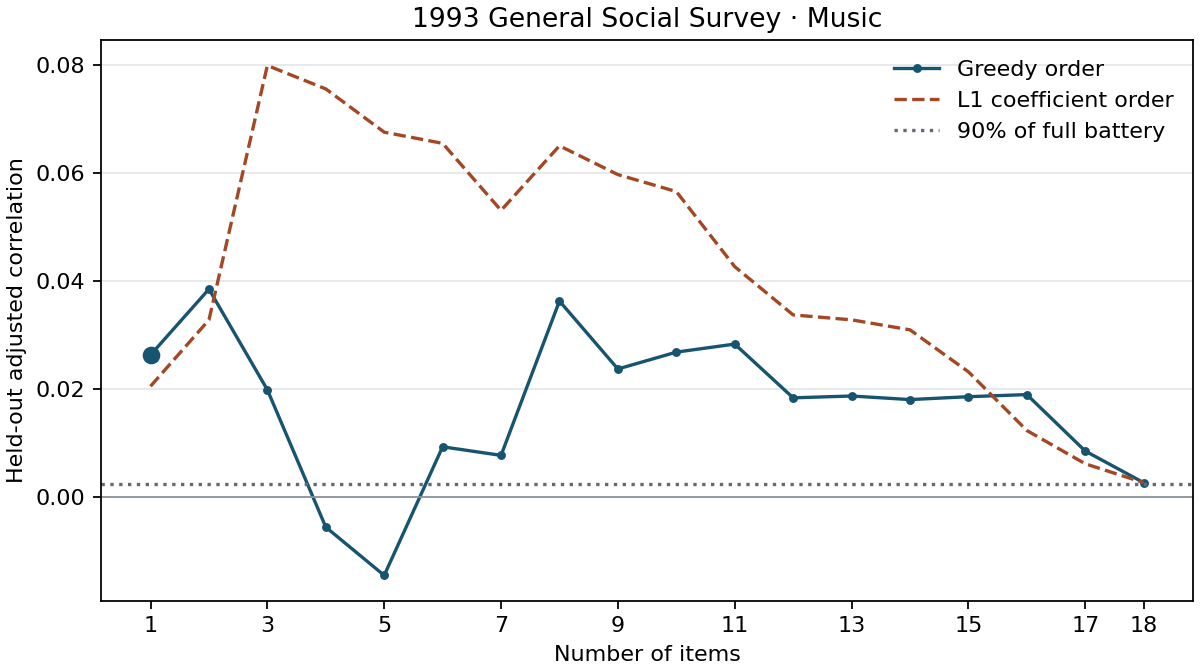
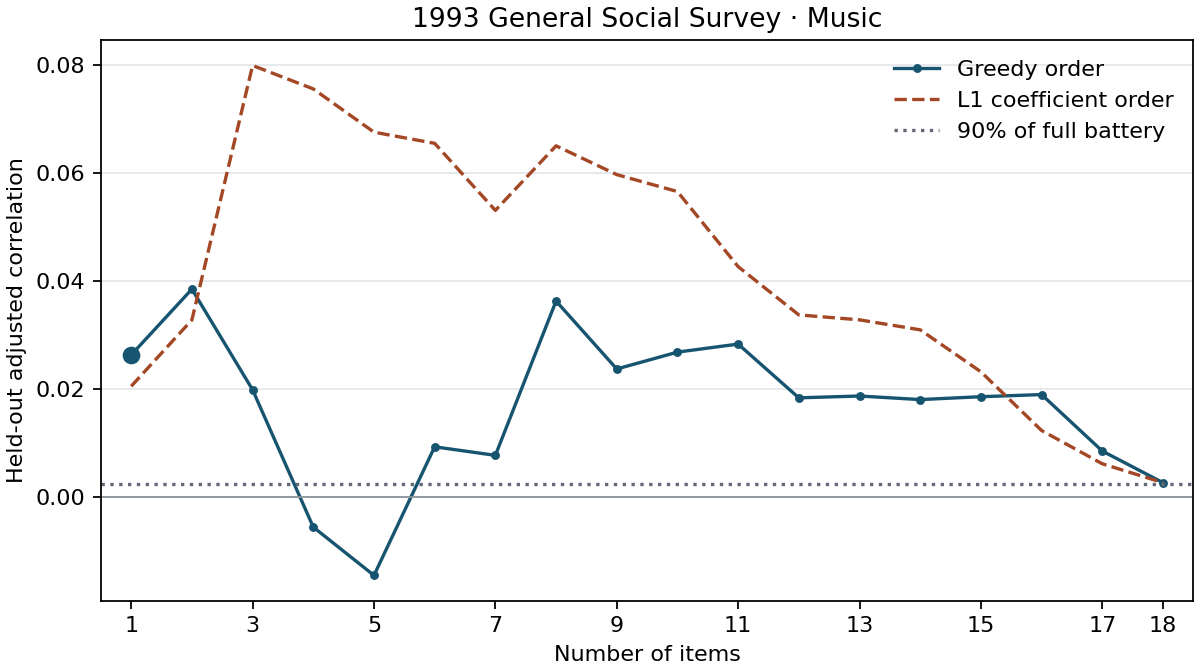
Complete Part 1 with Slovak replication

diff --git a/part1/__main__.py b/part1/__main__.py
@@ -17,7 +17,6 @@ from .quiz import evaluate_quiz
 
 matplotlib.use("Agg")
 from matplotlib import pyplot as plt
-from matplotlib.ticker import MaxNLocator
 
 ROOT = Path(__file__).resolve().parents[1]
 DOMAIN_NAMES = {
@@ -166,11 +165,10 @@ def draw_quiz(quiz, title, path):
     if quiz["minimum_k"] is not None:
         k = quiz["minimum_k"]
         ax.scatter(k, greedy[k - 1], color="#175470", s=48, zorder=3)
-    if len(counts) <= 20:
+    if counts:
         step = max(1, (len(counts) + 9) // 10)
         ax.set_xticks(sorted({*counts[::step], *counts[-1:]}))
-    else:
-        ax.xaxis.set_major_locator(MaxNLocator(integer=True, nbins=10))
+        ax.set_xlim(0.5, counts[-1] + 0.5)
     ax.set(xlabel="Number of items", ylabel="Held-out adjusted correlation", title=title)
     ax.grid(axis="y", color="#e3e8eb")
     ax.legend(frameon=False)
@@ -183,6 +181,7 @@ def domain_details(survey, domain, result, filename):
     auc = result["auc"]
     fit = result["ordinal"]
     means = result["mean_scores"]
+    low_rating = "disliked items" if survey.name == "1993 General Social Survey" else "low ratings (1–2)"
     train_cells = q["n_train"] * len(q["k"])
     test_cells = q["n_test"] * len(q["k"])
     train_missing = q["train_imputed_cells"] / train_cells if train_cells else np.nan
@@ -208,10 +207,20 @@ def domain_details(survey, domain, result, filename):
         f"| With response-style terms, slope (95% CI) | {effect(result['style_ordinal'])} |",
         "",
         f"Mean score components across complete cases were {means['liking']:.2f} average liking, "
-        f"{means['disliked']:.2f} disliked items, {means['very_liked']:.2f} strongly liked items, "
+        f"{means['disliked']:.2f} {low_rating}, {means['very_liked']:.2f} maximum ratings, "
         f"{means['item_sd']:.2f} within-person SD, and {means['valid_count']:.2f} valid items.",
         "",
         quiz_text(q, survey.labels),
+    ]
+    l1_crossings = [i for i, correlation in enumerate(q["l1_test"]) if correlation >= q["target_r"]]
+    if l1_crossings:
+        first_crossing = l1_crossings[0]
+        l1_items = ", ".join(survey.labels[item] for item in q["l1_order"][:first_crossing + 1])
+        rows.append(
+            f"The L1 order first crossed at k = {first_crossing + 1} "
+            f"({l1_items}, r = {q['l1_test'][first_crossing]:.3f})."
+        )
+    rows += [
         f"Quiz gaps filled using training item means were {format_number(train_missing, '.1%')} in training and "
         f"{format_number(test_missing, '.1%')} in testing.",
         "",
@@ -273,6 +282,9 @@ def write_report(out, gss, gss_results, checks, young, young_results):
     else:
         repl = young_results["combined"]
         repl_fit = repl["ordinal"]
+        hobby_fit = young_results["hobbies"]["ordinal"]
+        music_fit = young_results["music"]["ordinal"]
+        film_fit = young_results["film"]["ordinal"]
         if repl_fit["lo"] > 0 and fit["lo"] > 0:
             interpretation = "Both surveys support the hypothesized positive direction."
         elif repl_fit["lo"] > 0:
@@ -283,8 +295,13 @@ def write_report(out, gss, gss_results, checks, young, young_results):
             interpretation = "The combined Slovak interval includes no association, so replication is inconclusive."
         report += [
             f"**Slovak replication.** In {repl_fit['n']:,} Young People Survey responses, the combined score "
-            f"had an adjusted cumulative odds ratio of {odds(repl_fit)} (95% CI), with permutation "
-            f"p = {repl['p']:.4f}. {interpretation}",
+            f"had an adjusted cumulative odds ratio of {odds(repl_fit)} per SD (95% CI), with permutation "
+            f"p = {repl['p']:.4f}. A one-SD difference in liking corresponded to a "
+            f"{repl_fit['pp_change']:+.1f} percentage-point change in the modeled probability of the highest happiness rating. "
+            f"The descriptive domain odds ratios were {hobby_fit['odds_ratio']:.2f} for hobbies and interests, "
+            f"{music_fit['odds_ratio']:.2f} for music, and {film_fit['odds_ratio']:.2f} for film. {interpretation}",
+            "",
+            f"**Slovak combined quiz.** {quiz_text(repl['quiz'], young.labels)}",
             "",
         ]
 
@@ -294,7 +311,8 @@ def write_report(out, gss, gss_results, checks, young, young_results):
         "The analysis followed the [plan committed before inspecting outcomes](../PLAN.md). Higher "
         "ratings mean more liking and higher ordered outcome values mean greater happiness. The liking "
         "score averages observed ratings. The main model adjusts for the retained background variables "
-        "using ordinal logistic regression. AUC and quiz associations use the preassigned held-out half.",
+        "using ordinal logistic regression. AUC and quiz associations use the preassigned held-out half. "
+        "AUC differences use the unrounded paired estimates.",
         "",
         "The GSS music battery and missing codes come from the NORC documentation and single-year file. "
         "[NORC documentation](https://gss.norc.org/get-documentation.html) · "
@@ -354,7 +372,10 @@ def write_report(out, gss, gss_results, checks, young, young_results):
             "The original questionnaire dictionary defined the item domains. The combined battery uses "
             "all items listed below. [Young People Survey](https://www.kaggle.com/datasets/miroslavsabo/young-people-survey)",
             "",
-            f"The happiness outcome prompt was “{young.audit['outcome_prompt']}”",
+            f"The happiness outcome prompt was “{young.audit['outcome_prompt']}” "
+            "Respondents rated their agreement on a 1–5 scale. Genre ratings ranged from low to high "
+            "enjoyment. Hobby and interest ratings ranged from low to high interest. "
+            "Village/town refers to where the respondent spent most of childhood.",
             "",
             "| Background field | Missing responses |",
             "| --- | ---: |",

diff --git a/reports/part1.md b/reports/part1.md
@@ -8,11 +8,13 @@
 
 **Matched check.** Within comparable income, marital, health and work groups, the pooled difference in “very happy” was +0.6 percentage points (33.1% in the top liking tercile and 32.5% in the bottom). The comparison covered 524 people in 68 overlapping strata.
 
-**Replication pending.** The original Slovak questionnaire dictionary and response CSV are required to estimate replication. This report contains the GSS results while those files are pending.
+**Slovak replication.** In 987 Young People Survey responses, the combined score had an adjusted cumulative odds ratio of 1.26 [1.11, 1.42] per SD (95% CI), with permutation p = 0.0002. A one-SD difference in liking corresponded to a +2.8 percentage-point change in the modeled probability of the highest happiness rating. The descriptive domain odds ratios were 1.32 for hobbies and interests, 1.15 for music, and 0.98 for film. The Slovak survey supports the hypothesized positive direction and the GSS estimate is inconclusive.
+
+**Slovak combined quiz.** The full-battery held-out correlation was 0.130 (95% bootstrap interval 0.041 to 0.217). The first crossing was **2 items** (Physics, Fun with friends, r = 0.173).
 
 ## Methods and results
 
-The analysis followed the [plan committed before inspecting outcomes](../PLAN.md). Higher ratings mean more liking and higher ordered outcome values mean greater happiness. The liking score averages observed ratings. The main model adjusts for the retained background variables using ordinal logistic regression. AUC and quiz associations use the preassigned held-out half.
+The analysis followed the [plan committed before inspecting outcomes](../PLAN.md). Higher ratings mean more liking and higher ordered outcome values mean greater happiness. The liking score averages observed ratings. The main model adjusts for the retained background variables using ordinal logistic regression. AUC and quiz associations use the preassigned held-out half. AUC differences use the unrounded paired estimates.
 
 The GSS music battery and missing codes come from the NORC documentation and single-year file. [NORC documentation](https://gss.norc.org/get-documentation.html) · [NORC Stata files](https://gss.norc.org/get-the-data/stata.html)
 
@@ -47,12 +49,113 @@ Of 1,606 survey records, 1,576 met the battery coverage requirement, 1,573 of th
 | Unadjusted r, raw liking / age- and education-residualized liking | +0.028 / +0.002 |
 | With response-style terms, slope (95% CI) | +0.006 [-0.109, +0.121] |
 
-Mean score components across complete cases were 3.14 average liking, 5.44 disliked items, 2.22 strongly liked items, 1.10 within-person SD, and 16.97 valid items.
+Mean score components across complete cases were 3.14 average liking, 5.44 disliked items, 2.22 maximum ratings, 1.10 within-person SD, and 16.97 valid items.
 
 The full-battery held-out correlation was 0.003 (95% bootstrap interval -0.073 to 0.078). The first crossing was **1 item** (Classical music, r = 0.026). The threshold crossing is exploratory because the full-battery association was weak.
+The L1 order first crossed at k = 1 (Big band, r = 0.021).
 Quiz gaps filled using training item means were 5.5% in training and 5.9% in testing.
 
 ![Held-out association by number of items for 1993 General Social Survey Music](figures/gss-music-quiz.png)
+
+### Young People Survey · Music
+
+Of 1,010 survey records, 1,010 met the battery coverage requirement, 1,006 of those had an outcome, and 987 entered the complete-case analysis (490 train, 497 test).
+
+| Estimate | Value |
+| --- | ---: |
+| Primary log-odds slope per SD (95% CI) | +0.142 [+0.020, +0.264] |
+| Cumulative odds ratio per SD (95% CI) | 1.15 [1.02, 1.30] |
+| Average modeled change in highest-outcome probability per SD | +1.72 pp |
+| Two-sided permutation p | 0.0280 |
+| Test AUC, controls only | 0.573 |
+| Test AUC, controls and liking | 0.566 |
+| Paired test AUC difference | -0.007 |
+| With liking residualized on age and education, slope (95% CI) | +0.141 [+0.020, +0.262] |
+| Unadjusted r, raw liking / age- and education-residualized liking | +0.085 / +0.078 |
+| With response-style terms, slope (95% CI) | +0.169 [+0.034, +0.303] |
+
+Mean score components across complete cases were 2.76 average liking, 7.65 low ratings (1–2), 2.17 maximum ratings, 1.19 within-person SD, and 16.91 valid items.
+
+The full-battery held-out correlation was 0.077 (95% bootstrap interval -0.026 to 0.174). The first crossing was **1 item** (Reggae, Ska, r = 0.109). The threshold crossing is exploratory because the full-battery association was weak.
+The L1 order first crossed at k = 1 (Reggae, Ska, r = 0.109).
+Quiz gaps filled using training item means were 0.5% in training and 0.5% in testing.
+
+![Held-out association by number of items for Young People Survey Music](figures/young-music-quiz.png)
+
+### Young People Survey · Film
+
+Of 1,010 survey records, 1,010 met the battery coverage requirement, 1,006 of those had an outcome, and 987 entered the complete-case analysis (490 train, 497 test).
+
+| Estimate | Value |
+| --- | ---: |
+| Primary log-odds slope per SD (95% CI) | -0.022 [-0.146, +0.102] |
+| Cumulative odds ratio per SD (95% CI) | 0.98 [0.86, 1.11] |
+| Average modeled change in highest-outcome probability per SD | -0.27 pp |
+| Two-sided permutation p | 0.7253 |
+| Test AUC, controls only | 0.573 |
+| Test AUC, controls and liking | 0.578 |
+| Paired test AUC difference | +0.004 |
+| With liking residualized on age and education, slope (95% CI) | -0.022 [-0.146, +0.102] |
+| Unadjusted r, raw liking / age- and education-residualized liking | -0.003 / -0.001 |
+| With response-style terms, slope (95% CI) | +0.018 [-0.153, +0.189] |
+
+Mean score components across complete cases were 3.39 average liking, 3.01 low ratings (1–2), 3.03 maximum ratings, 1.20 within-person SD, and 10.97 valid items.
+
+The full-battery held-out correlation was 0.014 (95% bootstrap interval -0.068 to 0.098). The first crossing was **4 items** (Animated, Western, Fantasy/Fairy tales, Romantic, r = 0.026). The threshold crossing is exploratory because the full-battery association was weak.
+The L1 order first crossed at k = 4 (Thriller, Horror, Comedy, Romantic, r = 0.019).
+Quiz gaps filled using training item means were 0.2% in training and 0.3% in testing.
+
+![Held-out association by number of items for Young People Survey Film](figures/young-film-quiz.png)
+
+### Young People Survey · Hobbies and interests
+
+Of 1,010 survey records, 1,010 met the battery coverage requirement, 1,006 of those had an outcome, and 987 entered the complete-case analysis (490 train, 497 test).
+
+| Estimate | Value |
+| --- | ---: |
+| Primary log-odds slope per SD (95% CI) | +0.280 [+0.157, +0.402] |
+| Cumulative odds ratio per SD (95% CI) | 1.32 [1.17, 1.50] |
+| Average modeled change in highest-outcome probability per SD | +3.35 pp |
+| Two-sided permutation p | 0.0001 |
+| Test AUC, controls only | 0.573 |
+| Test AUC, controls and liking | 0.604 |
+| Paired test AUC difference | +0.030 |
+| With liking residualized on age and education, slope (95% CI) | +0.277 [+0.156, +0.398] |
+| Unadjusted r, raw liking / age- and education-residualized liking | +0.149 / +0.139 |
+| With response-style terms, slope (95% CI) | +0.288 [+0.161, +0.414] |
+
+Mean score components across complete cases were 2.88 average liking, 13.83 low ratings (1–2), 6.35 maximum ratings, 1.37 within-person SD, and 31.85 valid items.
+
+The full-battery held-out correlation was 0.148 (95% bootstrap interval 0.065 to 0.229). The first crossing was **2 items** (Physics, Fun with friends, r = 0.173).
+The L1 order first crossed at k = 3 (Physics, Celebrities, Fun with friends, r = 0.207).
+Quiz gaps filled using training item means were 0.5% in training and 0.4% in testing.
+
+![Held-out association by number of items for Young People Survey Hobbies and interests](figures/young-hobbies-quiz.png)
+
+### Young People Survey · Combined
+
+Of 1,010 survey records, 1,010 met the battery coverage requirement, 1,006 of those had an outcome, and 987 entered the complete-case analysis (490 train, 497 test).
+
+| Estimate | Value |
+| --- | ---: |
+| Primary log-odds slope per SD (95% CI) | +0.230 [+0.108, +0.353] |
+| Cumulative odds ratio per SD (95% CI) | 1.26 [1.11, 1.42] |
+| Average modeled change in highest-outcome probability per SD | +2.77 pp |
+| Two-sided permutation p | 0.0002 |
+| Test AUC, controls only | 0.573 |
+| Test AUC, controls and liking | 0.584 |
+| Paired test AUC difference | +0.010 |
+| With liking residualized on age and education, slope (95% CI) | +0.228 [+0.107, +0.350] |
+| Unadjusted r, raw liking / age- and education-residualized liking | +0.127 / +0.119 |
+| With response-style terms, slope (95% CI) | +0.244 [+0.119, +0.369] |
+
+Mean score components across complete cases were 2.94 average liking, 24.49 low ratings (1–2), 11.55 maximum ratings, 1.35 within-person SD, and 59.73 valid items.
+
+The full-battery held-out correlation was 0.130 (95% bootstrap interval 0.041 to 0.217). The first crossing was **2 items** (Physics, Fun with friends, r = 0.173).
+The L1 order first crossed at k = 1 (Fun with friends, r = 0.233).
+Quiz gaps filled using training item means were 0.5% in training and 0.4% in testing.
+
+![Held-out association by number of items for Young People Survey Combined](figures/young-combined-quiz.png)
 
 ### GSS matched and weighting checks
 
@@ -63,6 +166,95 @@ The three-tercile display used 55 strata and 720 respondents. Pooled “very hap
 In the same 973 health-complete cases, the liking slope was +0.025 [-0.108, +0.157] without health and +0.030 [-0.105, +0.164] with health (95% CIs).
 
 As a weighting sensitivity, the WTSSPS-weighted binary model for “very happy” gave an odds ratio of 1.05 per SD (1,441 cases).
+
+### Slovak questionnaire coverage
+
+The original questionnaire dictionary defined the item domains. The combined battery uses all items listed below. [Young People Survey](https://www.kaggle.com/datasets/miroslavsabo/young-people-survey)
+
+The happiness outcome prompt was “I am 100% happy with my life.” Respondents rated their agreement on a 1–5 scale. Genre ratings ranged from low to high enjoyment. Hobby and interest ratings ranged from low to high interest. Village/town refers to where the respondent spent most of childhood.
+
+| Background field | Missing responses |
+| --- | ---: |
+| Age | 7 (0.7%) |
+| Gender | 6 (0.6%) |
+| Education | 1 (0.1%) |
+| Village - town | 4 (0.4%) |
+| Number of siblings | 6 (0.6%) |
+
+#### Music
+
+| Item | Original prompt |
+| --- | --- |
+| Dance | Dance, Disco, Funk |
+| Folk | Folk music |
+| Country | Country |
+| Classical music | Classical |
+| Musical | Musicals |
+| Pop | Pop |
+| Rock | Rock |
+| Metal or Hardrock | Metal, Hard rock |
+| Punk | Punk |
+| Hiphop, Rap | Hip hop, Rap |
+| Reggae, Ska | Reggae, Ska |
+| Swing, Jazz | Swing, Jazz |
+| Rock n roll | Rock n Roll |
+| Alternative | Alternative music |
+| Latino | Latin |
+| Techno, Trance | Techno, Trance |
+| Opera | Opera |
+
+#### Film
+
+| Item | Original prompt |
+| --- | --- |
+| Horror | Horror movies |
+| Thriller | Thriller movies |
+| Comedy | Comedies |
+| Romantic | Romantic movies |
+| Sci-fi | Sci-fi movies |
+| War | War movies |
+| Fantasy/Fairy tales | Tales |
+| Animated | Cartoons |
+| Documentary | Documentaries |
+| Western | Western movies |
+| Action | Action movies |
+
+#### Hobbies and interests
+
+| Item | Original prompt |
+| --- | --- |
+| History | History |
+| Psychology | Psychology |
+| Politics | Politics |
+| Mathematics | Mathematics |
+| Physics | Physics |
+| Internet | Internet |
+| PC | PC Software, Hardware |
+| Economy Management | Economy, Management |
+| Biology | Biology |
+| Chemistry | Chemistry |
+| Reading | Poetry reading |
+| Geography | Geography |
+| Foreign languages | Foreign languages |
+| Medicine | Medicine |
+| Law | Law |
+| Cars | Cars |
+| Art exhibitions | Art |
+| Religion | Religion |
+| Countryside, outdoors | Outdoor activities |
+| Dancing | Dancing |
+| Musical instruments | Playing musical instruments |
+| Writing | Poetry writing |
+| Passive sport | Sport and leisure activities |
+| Active sport | Sport at competitive level |
+| Gardening | Gardening |
+| Celebrities | Celebrity lifestyle |
+| Shopping | Shopping |
+| Science and technology | Science and technology |
+| Theatre | Theatre |
+| Fun with friends | Socializing |
+| Adrenaline sports | Adrenaline sports |
+| Pets | Pets |
 
 ## Limitations
 
@@ -79,3 +271,5 @@ From the repository root, regenerate this report and the figures with `.venv\Scr
 | Raw input | SHA-256 |
 | --- | --- |
[3 lines of base64/hex data omitted]

diff --git a/LOG.md b/LOG.md
@@ -13,3 +13,4 @@
 - Required at least half of a battery's answers for each observed-item mean to avoid representing a full battery with a handful of known items.
 - Used training item means only in the short quiz to compare all lengths on the same respondents without borrowing answers the short quiz would skip.
 - Used respondent-level ordinal fits for the main conditional estimates and a weighted top-category sensitivity to show how poststratification affects the GSS result.
+- Used the original Slovak dictionary to describe the settlement control as childhood location and the lowest responses as low enjoyment or interest.
